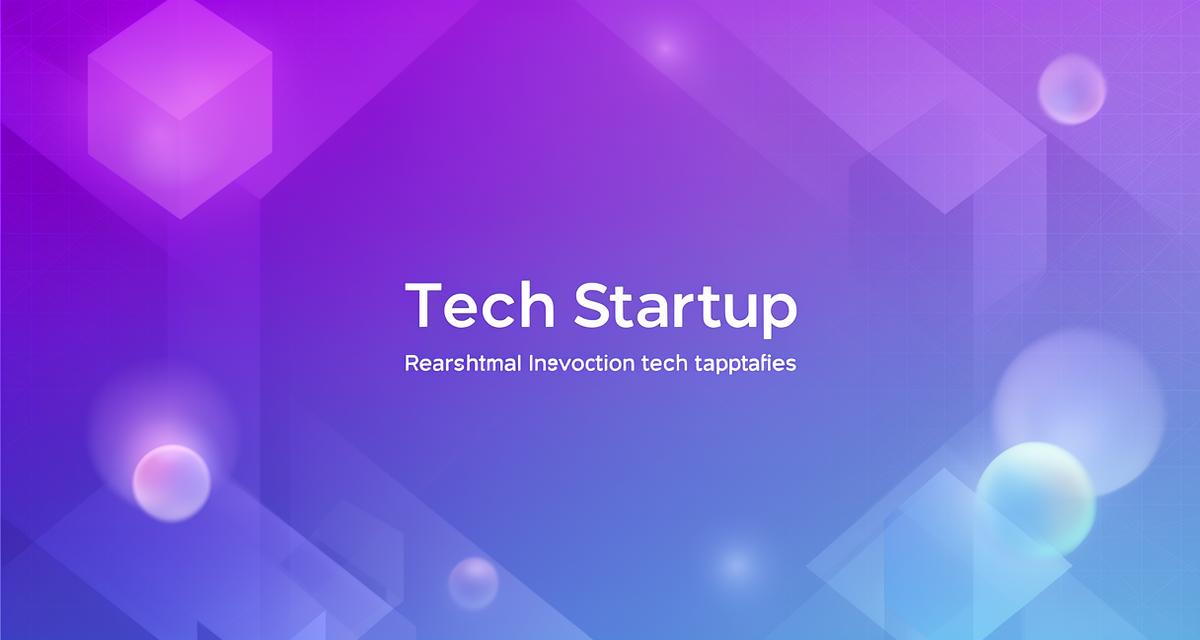
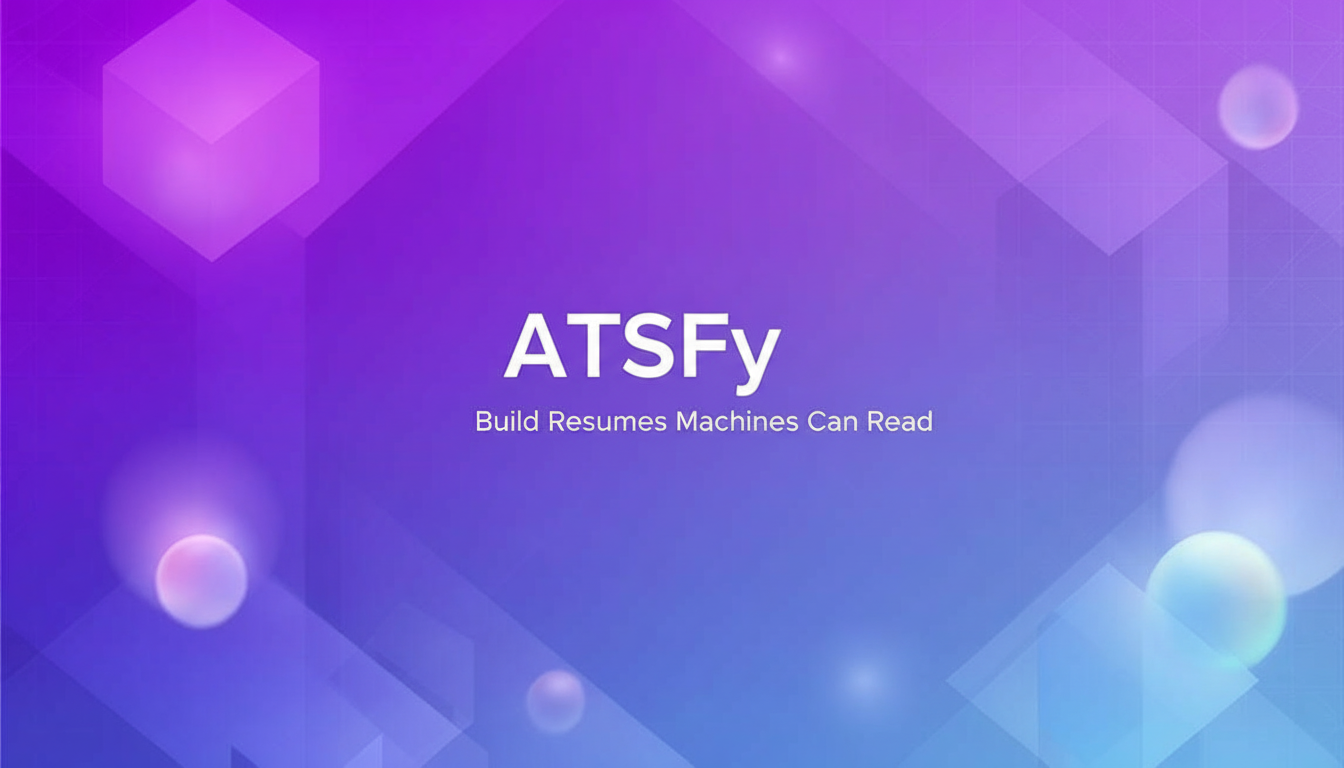
Add og image for ATSFy

diff --git a/index.html b/index.html
@@ -10,11 +10,11 @@
     <meta property="og:title" content="ATSFy Resume Assistant" />
     <meta property="og:description" content="Build ATS-friendly resumes that get past automated screening systems and land you more interviews." />
     <meta property="og:type" content="website" />
-    <meta property="og:image" content="https://lovable.dev/opengraph-image-p98pqg.png" />
+    <meta property="og:image" content="/og-image.png" />
 
     <meta name="twitter:card" content="summary_large_image" />
     <meta name="twitter:site" content="@ATSFy" />
-    <meta name="twitter:image" content="https://lovable.dev/opengraph-image-p98pqg.png" />
+    <meta name="twitter:image" content="/og-image.png" />
   </head>
 
   <body>
